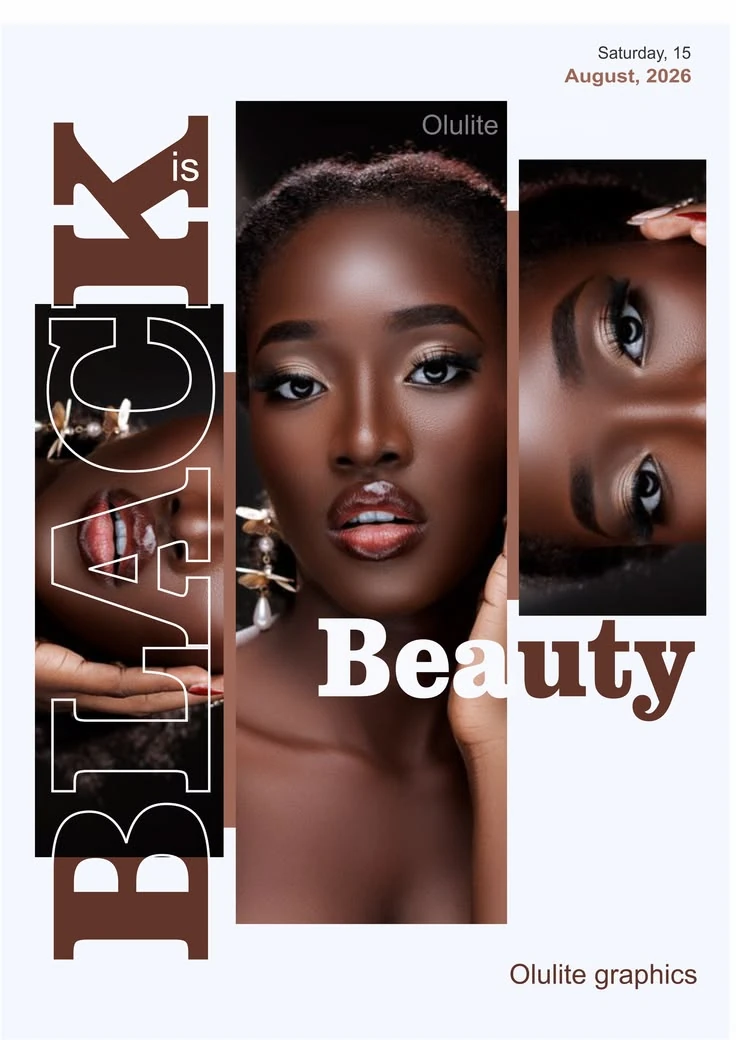
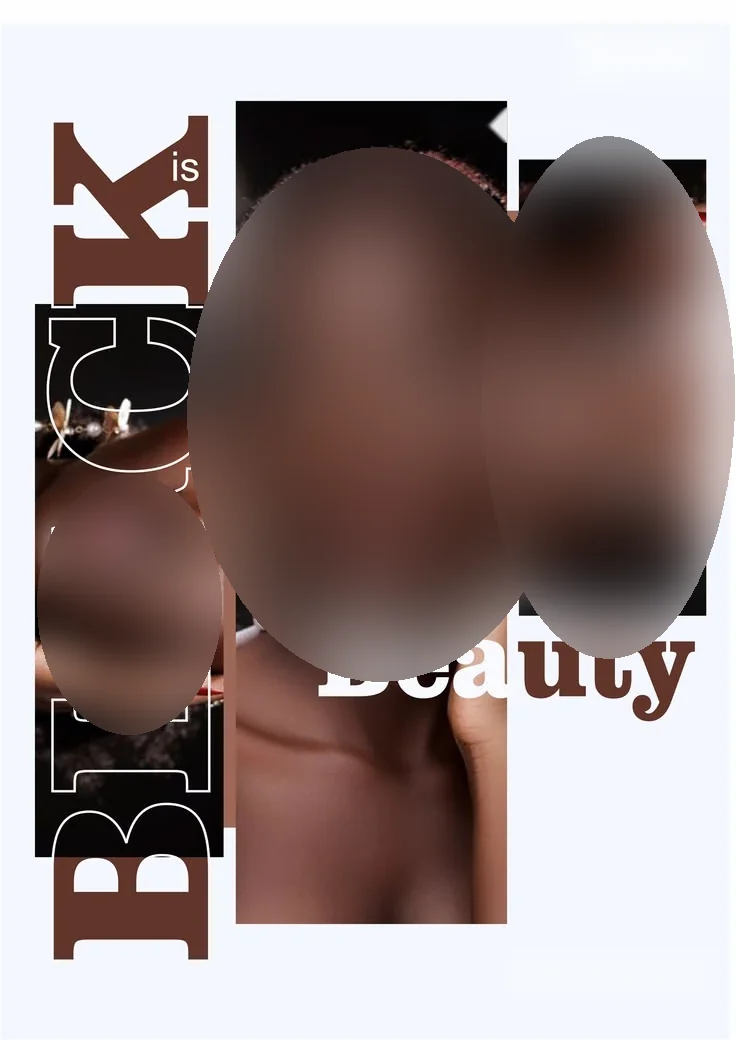
fix: anonymize the three homepage posters
Remove dates, venues, phones, brand names and recognizable faces from the cover examples, the same way the other public posters were treated.

Changed region(s): [[0.0312, 0.0923, 1.0, 0.7077], [0.75, 0.0308, 0.9375, 0.0923], [0.6875, 0.9231, 0.9375, 0.9538]]

diff --git a/src/lib/exact-showcase.ts b/src/lib/exact-showcase.ts
@@ -5,11 +5,11 @@ export const EXACT_SHOWCASE = [
     width: 736,
     height: 1040,
     title: "Black is Beauty",
-    subtitle: "Olulite",
-    meta: "Saturday, 15 August, 2026",
-    cta: "Olulite graphics",
+    subtitle: "Beauté",
+    meta: "Date retirée",
+    cta: "Exemple public",
     domaine: "Beauté",
-    alt: "Copie exacte, affiche Black is Beauty, même photo, même texte, même police, même fond.",
+    alt: "Exemple public, affiche beauté. Visages, date et nom retirés.",
     className: "cover-side cover-side-left",
     priority: false,
   },
@@ -19,11 +19,11 @@ export const EXACT_SHOWCASE = [
     width: 736,
     height: 736,
     title: "Shop your gadgets",
-    subtitle: "Castro mobile world",
-    meta: "07041838267",
+    subtitle: "High-tech",
+    meta: "Contact retiré",
     cta: "Shop Now",
     domaine: "High-tech",
-    alt: "Copie exacte, affiche Shop your gadgets, même photo, même texte, même police, même fond.",
+    alt: "Exemple public, affiche high-tech. Visage, marque et contacts retirés.",
     className: "cover-side cover-side-right",
     priority: false,
   },
@@ -33,11 +33,11 @@ export const EXACT_SHOWCASE = [
     width: 736,
     height: 943,
     title: "Retrouvailles",
-    subtitle: "Chaque dimanche 14h00",
-    meta: "JKK Lodge 1, 27eme poteaux route Kinsevere",
+    subtitle: "Événement",
+    meta: "Salle Horizon",
     cta: "Réservation",
     domaine: "Événement",
-    alt: "Copie exacte, affiche Retrouvailles, même photo, même texte, même police, même fond.",
+    alt: "Exemple public, affiche événement. Visages, horaire, lieu et téléphones retirés.",
     className: "cover-hero",
     priority: true,
   },

diff --git a/src/components/cover/cover-scene.tsx b/src/components/cover/cover-scene.tsx
@@ -56,7 +56,10 @@ export function CoverScene({ bar, band }: { bar: ReactNode; band: ReactNode }) {
             </div>
           ))}
         </div>
-        <p className="cover-caption">Copie exacte : même image, même texte, même police, même fond.</p>
+        <p className="cover-caption">
+          Copie exacte : même photo, même composition, même police, même fond. Sur les exemples publics, les
+          visages, dates, lieux et contacts sont retirés.
+        </p>
       </div>
 
       <div className="cover-band">
